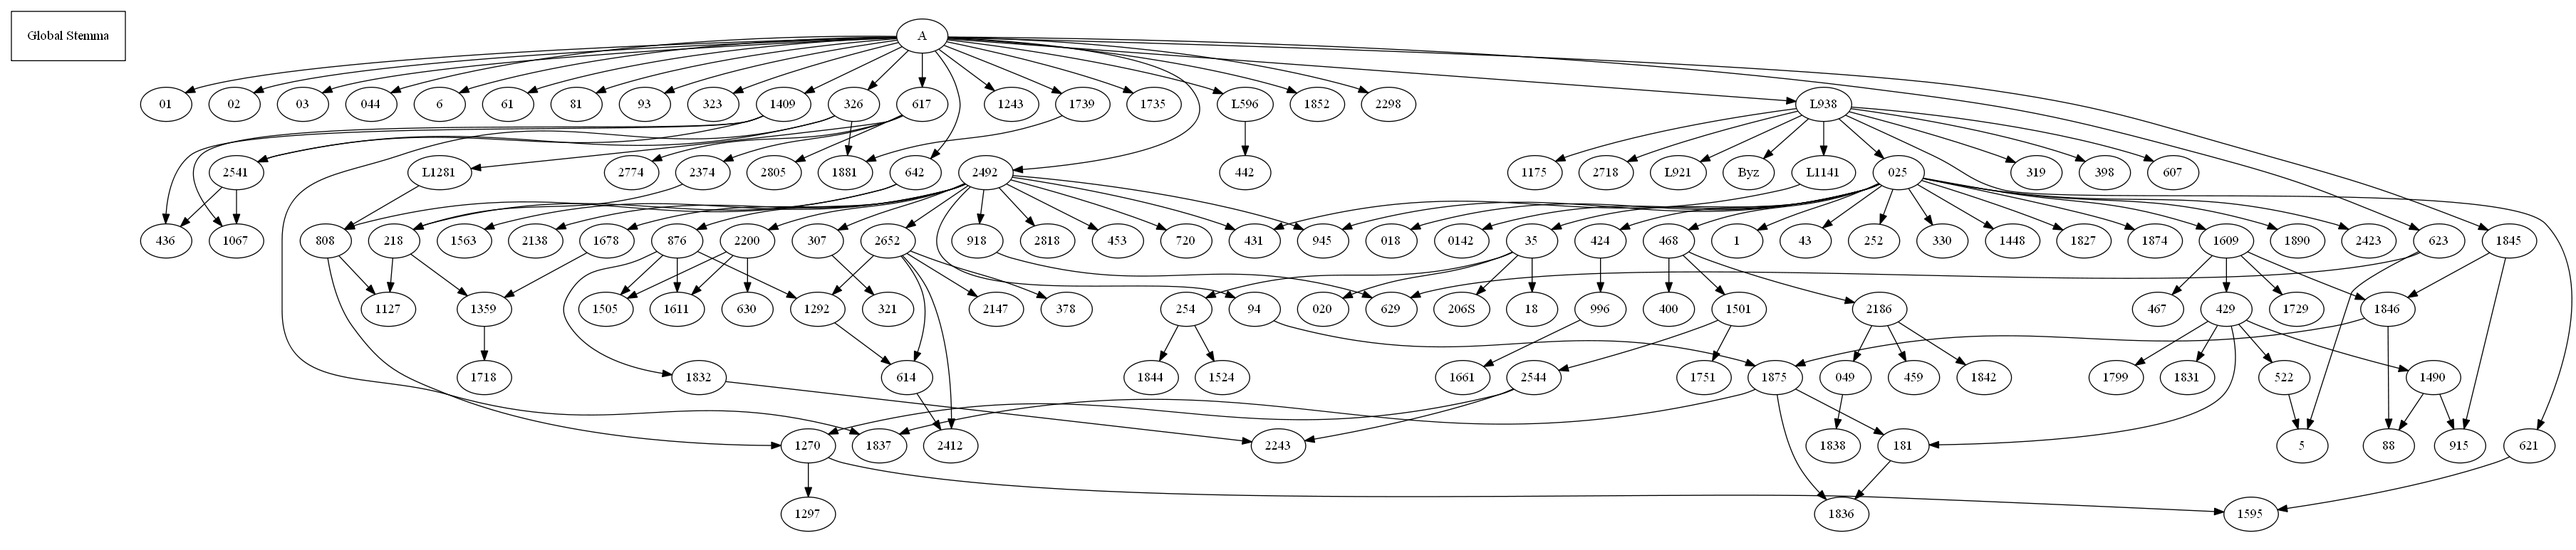
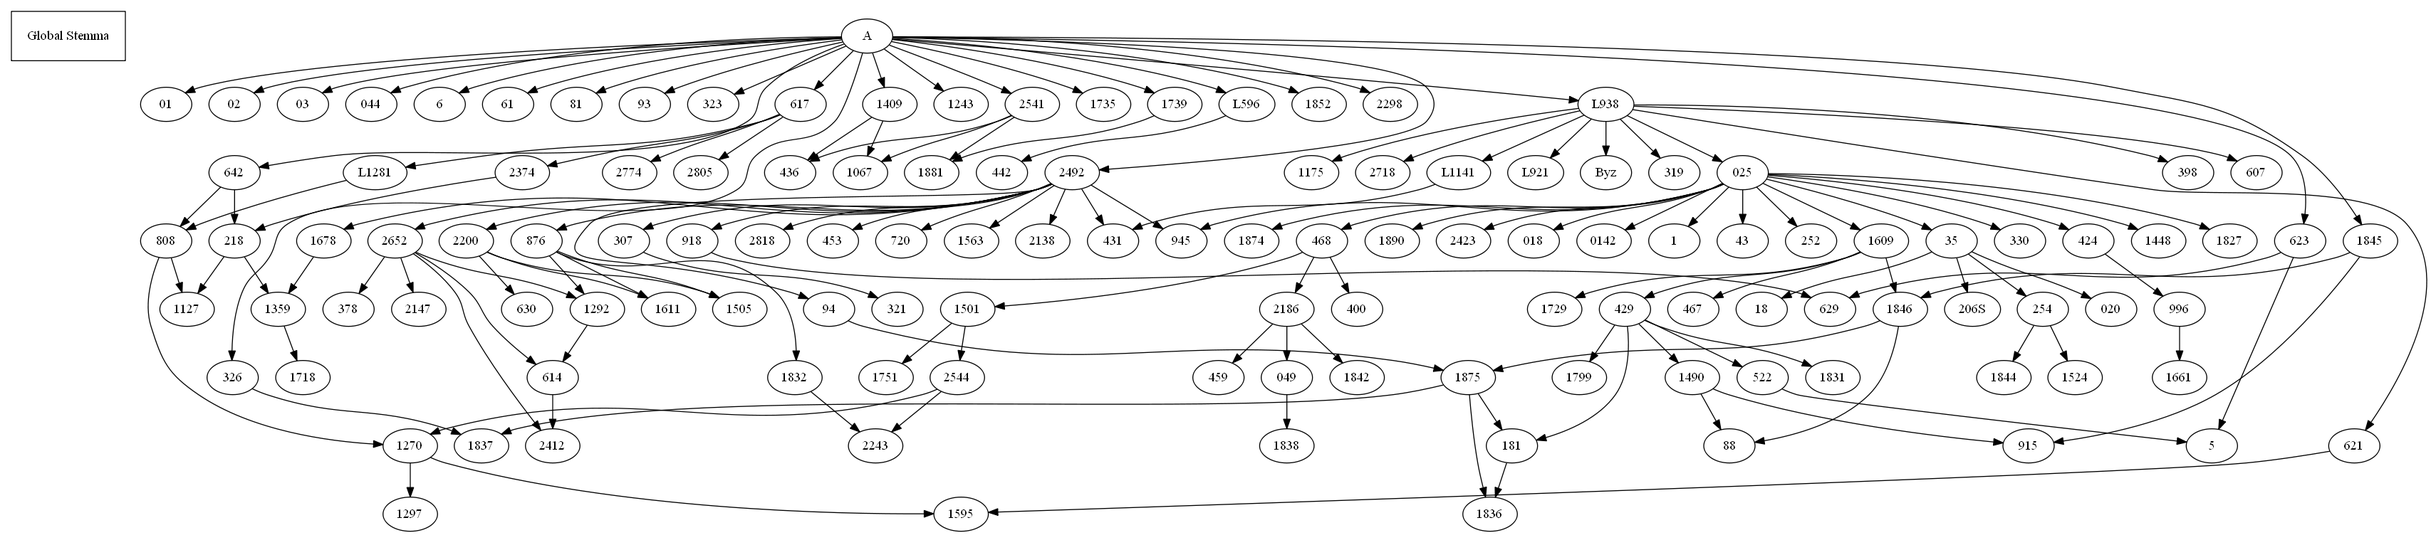
Updated README.md; updated global stemma images to account for big fix in previous commit

diff --git a/README.md b/README.md
@@ -271,7 +271,7 @@ Coherence in attestations diagrams for all readings in 3 John 1:4/22–26:
 Coherence in variant passages diagram for 3 John 1:4/22–26:
 ![3 John 1:4/22–26 coherence in variant passages diagram](https://github.com/jjmccollum/open-cbgm/blob/master/images/B25K1V4U22-26-coherence-variants.png)
 
-Complete global stemma for 3 John (multiple roots are due to readings with unclear sources), with edges formatted to highlight levels of agreement:
+Complete global stemma for 3 John (multiple roots are due to readings with unclear sources):
 ![3 John global stemma](https://github.com/jjmccollum/open-cbgm/blob/master/images/global-stemma.png)
 
 Complete global stemma for 3 John, with fragmentary witnesses and variants with unclear reading sources excluded:
